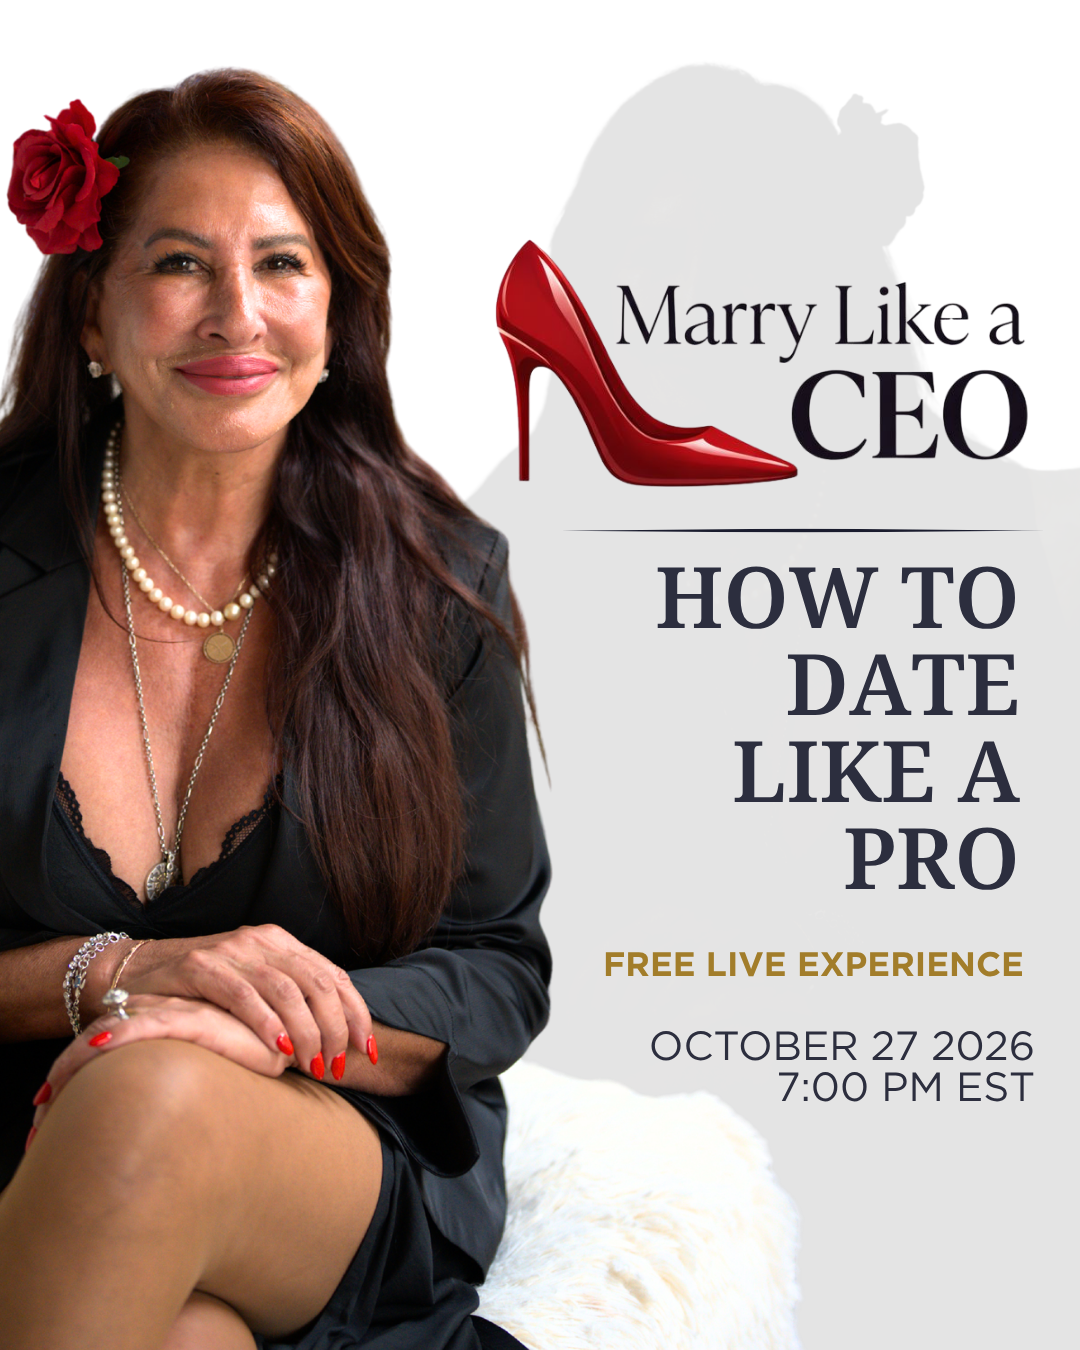
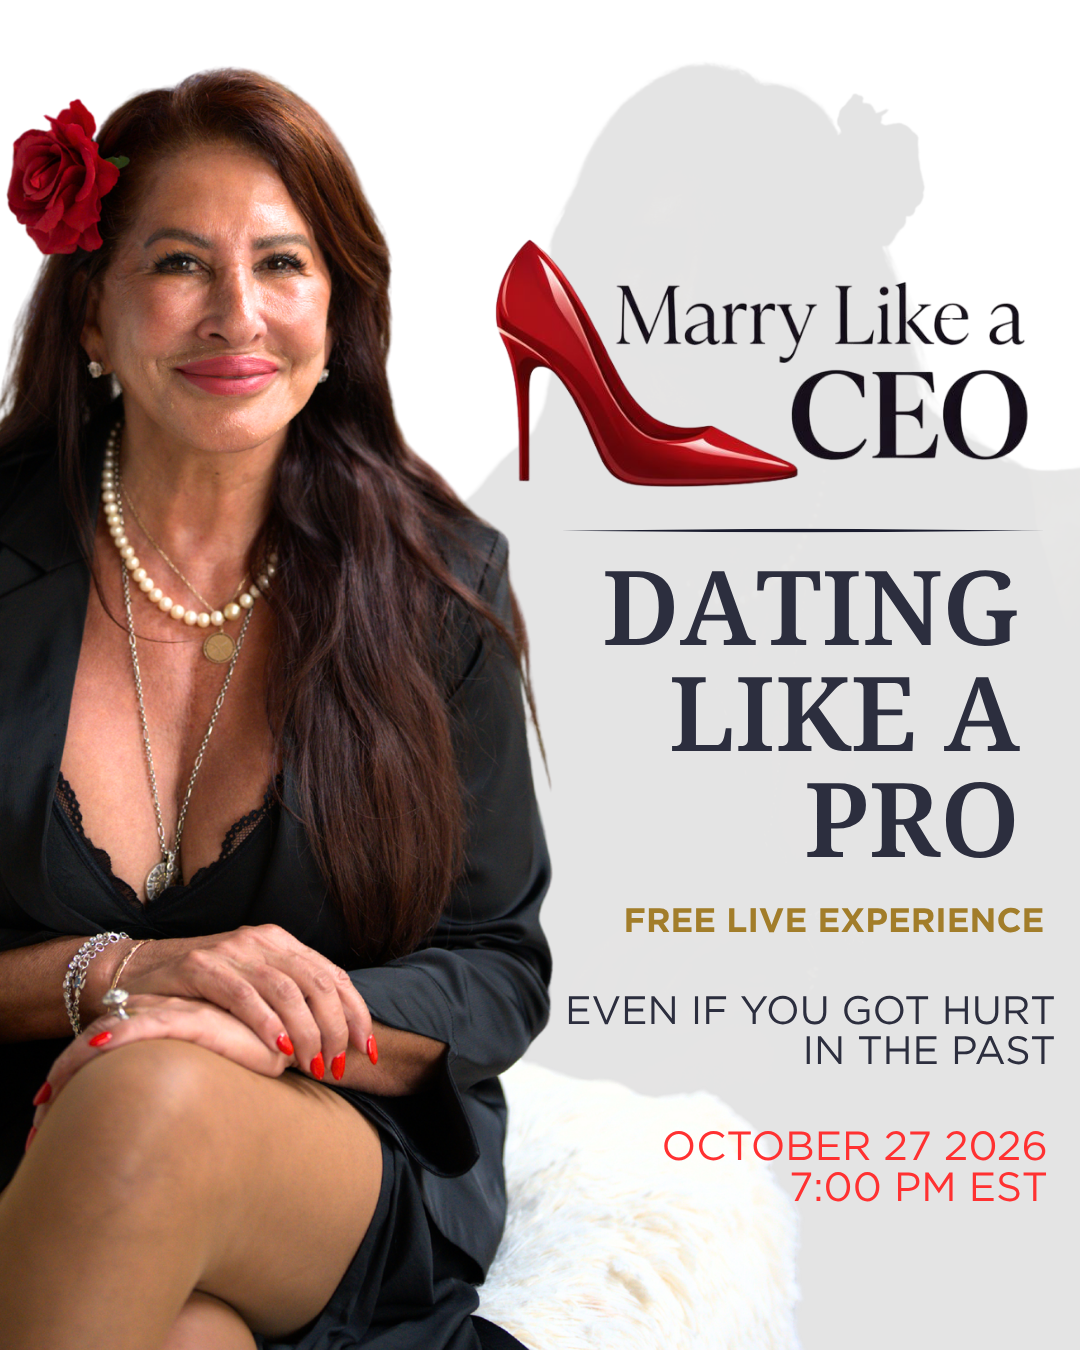
rename

Changed region(s): [[0.5194, 0.4044, 0.9778, 0.9022]]

diff --git a/src/constants/copy.ts b/src/constants/copy.ts
@@ -213,14 +213,14 @@ export const COPY = {
   },
   oct27: {
     meta: {
-      title: "How to Date Like a Pro — Marry Like a CEO",
+      title: "Dating Like a Pro - Even If You Got Hurt in the Past — Marry Like a CEO",
       description:
         "A free live event with Ariel Yankelewitz for ambitious women ready for marriage and lasting love. Date with intention, clarity, and confidence — live, October 27, 2026.",
     },
     hero: {
       eyebrow: "Free Live Event",
-      headline: "HOW TO DATE",
-      headlineAccent: "Like a Pro.",
+      headline: "DATING LIKE A PRO",
+      headlineAccent: "EVEN IF YOU GOT HURT IN THE PAST.",
       subhead:
         "Dating shouldn\u2019t feel like a guessing game. A free live event with Ariel Yankelewitz for ambitious women ready for marriage and lasting love.",
       freeBadge: "Free Live Event",
@@ -228,11 +228,11 @@ export const COPY = {
       ctaMicro: "Free to attend. Register on Luma to get your link.",
       imageAlt: "Ariel Yankelewitz",
       posterEyebrow: "Ariel Yankelewitz",
-      posterHeadline: "How to Date Like a Pro",
+      posterHeadline: "Dating Like a Pro - Even If You Got Hurt in the Past",
     },
     invitation: {
       eyebrow: "You're Invited",
-      headline: "How to Date Like a Pro",
+      headline: "Dating Like a Pro - Even If You Got Hurt in the Past",
       dateLabel: "October 27, 2026",
       dayLabel: "Tuesday",
       timeLabel: "7:00 PM ET",
@@ -345,7 +345,7 @@ export const COPY = {
         "A live virtual Experience with Ariel Yankelewitz — the exact framework she used to choose her second husband, walked through in one sitting.",
       freeBadge: "This Event Has Ended",
       cta: "Join the Next Experience",
-      ctaMicro: "Next up: How to Date Like a Pro — October 27, 2026. Free to attend.",
+      ctaMicro: "Next up:Dating Like a Pro - Even If You Got Hurt in the Past — October 27, 2026. Free to attend.",
       imageAlt: "Ariel Yankelewitz",
       posterEyebrow: "Ariel Yankelewitz",
       posterHeadline: "The Dating Code",
@@ -359,7 +359,7 @@ export const COPY = {
       formatLabel: "Live Virtual — Link Sent After Registration",
       body: "Ninety minutes with Ariel. The strategy, the standards, the exact sequence — taught the way she'd teach it to a friend she respected too much to waste her time.",
       cta: "Join the Next Experience",
-      micro: "How to Date Like a Pro — October 27, 2026.",
+      micro: "Dating Like a Pro - Even If You Got Hurt in the Past — October 27, 2026.",
     },
     countdown: {
       eyebrow: "Doors Close In",

diff --git a/src/config/events.ts b/src/config/events.ts
@@ -54,7 +54,7 @@ export const EVENTS: readonly EventItem[] = [
     id: "how-to-date-like-a-pro",
     dateISO: "2026-10-27",
     time: "7:00 PM",
-    title: "How to Date Like a Pro (Free Live Event)",
+    title: "Dating Like a Pro - Even If You Got Hurt in the Past (Free Live Event)",
     host: "Ariel Yankelewitz",
     location: "Zoom",
     mode: "Online",
@@ -63,7 +63,7 @@ export const EVENTS: readonly EventItem[] = [
     image: {
       // Placeholder: the previous poster. Overwrite this file with the new poster (same name) to update.
       src: "/images/events/how-to-date-like-a-pro-poster.png",
-      alt: "Marry Like a CEO — How to Date Like a Pro, a free live event with Ariel Yankelewitz",
+      alt: "Marry Like a CEO — Dating Like a Pro - Even If You Got Hurt in the Past, a free live event with Ariel Yankelewitz",
     },
     hostAvatar: {
       src: "/images/events/ariel-avatar.jpg",
